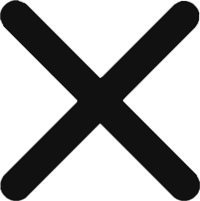
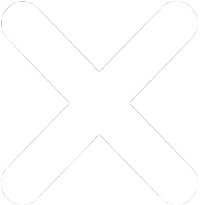
video

diff --git a/photography/css/style.css b/photography/css/style.css
@@ -375,9 +375,7 @@ Created : Ankita Naik
                    padding-top: 50px ;
                    
                 }
-                .video1 {
-                    height: 475px;
-                }
+                
              .video {
                     display: block;
                     align-items: center;
@@ -385,9 +383,8 @@ Created : Ankita Naik
                     padding-bottom: 45px;
                 }
                .video1 {
-                    flex-basis: 50%;
-                    min-width: 250px;
-                }
+                    height: 475px;
+                 }
                 .feature-img {
                     width: 100%;
                     margin: auto;
@@ -431,24 +428,23 @@ Created : Ankita Naik
                 .video-player {
                     width: 70%;
                     position: absolute;
-                    left: 50%;
-                    top: 58%;
-                    transform: translate(-50%, -58%);
+                    left:50%;
+                    top: 50%;
+                    transform: translate(-50%, -50%);
                     display: none;
-                    padding-top: 58px;
                 }
-
+                
                 video:focus {
                     outline: none;
                 }
+                
                 .close-btn {
                     position: absolute;
                     top: 10px;
                     right: 10px;
                     width: 30px;
-                   cursor: pointer;
                 }
-
+                
                 .mediumShow {
                     display: none ; 
            }
@@ -1156,12 +1152,20 @@ Created : Ankita Naik
 
             /***Video Start*****/
             .video-player {
-                width: 90%;
-                position: fixed;
-                left: 50%;
-                bottom: 50%;
-         
-              }
+                width: 70%;
+                position: absolute;
+                left:50%;
+                top: 50%;
+                transform: translate(-50%, -50%);
+                display: none;
+            }
+            .close-btn {
+                position: absolute;
+                top: 10px;
+                right: 10px;
+                width: 30px;
+            }
+
 
             .mediumHide {
                 display: none;
@@ -1176,6 +1180,7 @@ Created : Ankita Naik
             }
             .video1 {
                 height: auto;
+           width: 100%;
             }
 
             .videomedium {
@@ -1699,14 +1704,22 @@ Created : Ankita Naik
                     /**Gallery End**/
 
                  /***Video Start*****/
-                .video-player {
-                    width: 90%;
-                    position: fixed;
-                    left: 50%;
-                    bottom: 50%;
-            
+                 .video-player {
+                    width: 70%;
+                    position: absolute;
+                    left:50%;
+                    top: 50%;
+                    transform: translate(-50%, -50%);
+                    display: none;
+                }
+                .close-btn {
+                    position: absolute;
+                    top: 10px;
+                    right: 10px;
+                    width: 30px;
                 }
 
+ 
                 .mediumHide {
                     display: none;
                 }
@@ -2186,13 +2199,20 @@ Created : Ankita Naik
                     }
                         /**Gallery End**/
                   /***Video Start*****/
-                        .video-player {
-                            width: 90%;
-                            position: fixed;
-                            left: 50%;
-                            bottom: 50%;
-                    
-                        }
+                  .video-player {
+                    width: 70%;
+                    position: absolute;
+                    left:50%;
+                    top: 50%;
+                    transform: translate(-50%, -50%);
+                    display: none;
+                }
+                .close-btn {
+                    position: absolute;
+                    top: 10px;
+                    right: 10px;
+                    width: 30px;
+                }
 
                         .mediumHide {
                             display: none;
@@ -2547,12 +2567,20 @@ Created : Ankita Naik
                     /**Gallery End**/
                     /***Video Start*****/
                     .video-player {
-                        width: 90%;
-                        position: fixed;
-                        left: 50%;
-                        bottom: 50%;
-                
+                        width: 70%;
+                        position: absolute;
+                        left:50%;
+                        top: 50%;
+                        transform: translate(-50%, -50%);
+                        display: none;
                     }
+                    .close-btn {
+                        position: absolute;
+                        top: 10px;
+                        right: 10px;
+                        width: 30px;
+                    }
+    
 
                     .mediumHide {
                         display: none;

diff --git a/photography/videos.html b/photography/videos.html
@@ -94,18 +94,14 @@
      </div>
 
 </div>
-<div class="container">
-    <div class="row">
-        <div class="col-lg-12 col-md-12 col-sm-12">
 <div class="video-player" id="videoPlayer">
-    <video width="80%" controls autoplay id="myVideo">
-        <source src="images/siddankita1.mp4" type="video/mp4">
+    <video width="100%" controls autoplay id="myVideo">
+        <source src="images/siddankita.mp4" type="video/mp4">
     </video>
     <img src="images/close1.png" alt="" class="close-btn" onclick="stopVideo()">
 </div>
-</div>
-</div>
-</div>
+
+
 <!------Video End------>   </section>
        <!--Gallery END-->
 
